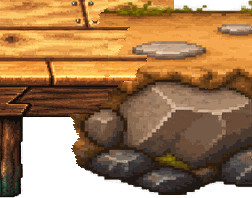
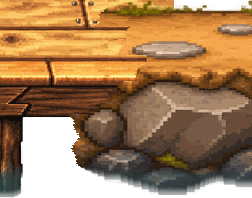
Shade and soften submerged harbor edges

Changed region(s): [[0.3333, 0.8485, 1.0, 1.0], [0.0, 0.8485, 0.1111, 1.0]]

diff --git a/CHANGELOG.md b/CHANGELOG.md
@@ -1,3 +1,4 @@
+2026-11-12 · 마을 말뚝, 접합부, 해안 바위와 여객선 밑부분에 수중 명암과 가장자리 투명도 반영. 미배포.
 2026-11-12 · 부두와 마을 사이에 252×198 전용 접합 타일 적용. 보행 높이 유지. 미배포.
 2026-11-12 · 목재 승하선 부두와 건물용 해안 지면 분리. 부두 900px, 지면 1080px 원본을 300·360 월드 단위로 표시. 미배포.
 2026-11-12 · 통부두를 어시장 목재색에 맞춘 300×66 도트 자산으로 교체. 미배포.

diff --git a/docs/qa/harbor-mail/HANDOFF.md b/docs/qa/harbor-mail/HANDOFF.md
@@ -1,3 +1,4 @@
+Godot 4.4.1 렌더 전후 확인. 선체 하단 5픽셀 및 부두·지면 하단 34픽셀 이내만 변경됨을 RGBA 비교로 확인. 미배포.
 승인한 접합부 유지, 물에 닿는 말뚝과 해안 바위 하단 명암 보정.
 v1.29 전체 소스와 작업 브랜치 overlay로 접합부 적용, Godot 4.4.1에서 810×1980 마을 8개 시점 확인. 전체 시안 검토 대기.
 부두 끝 전용 접합부와 전체 화면 검토 진행.
